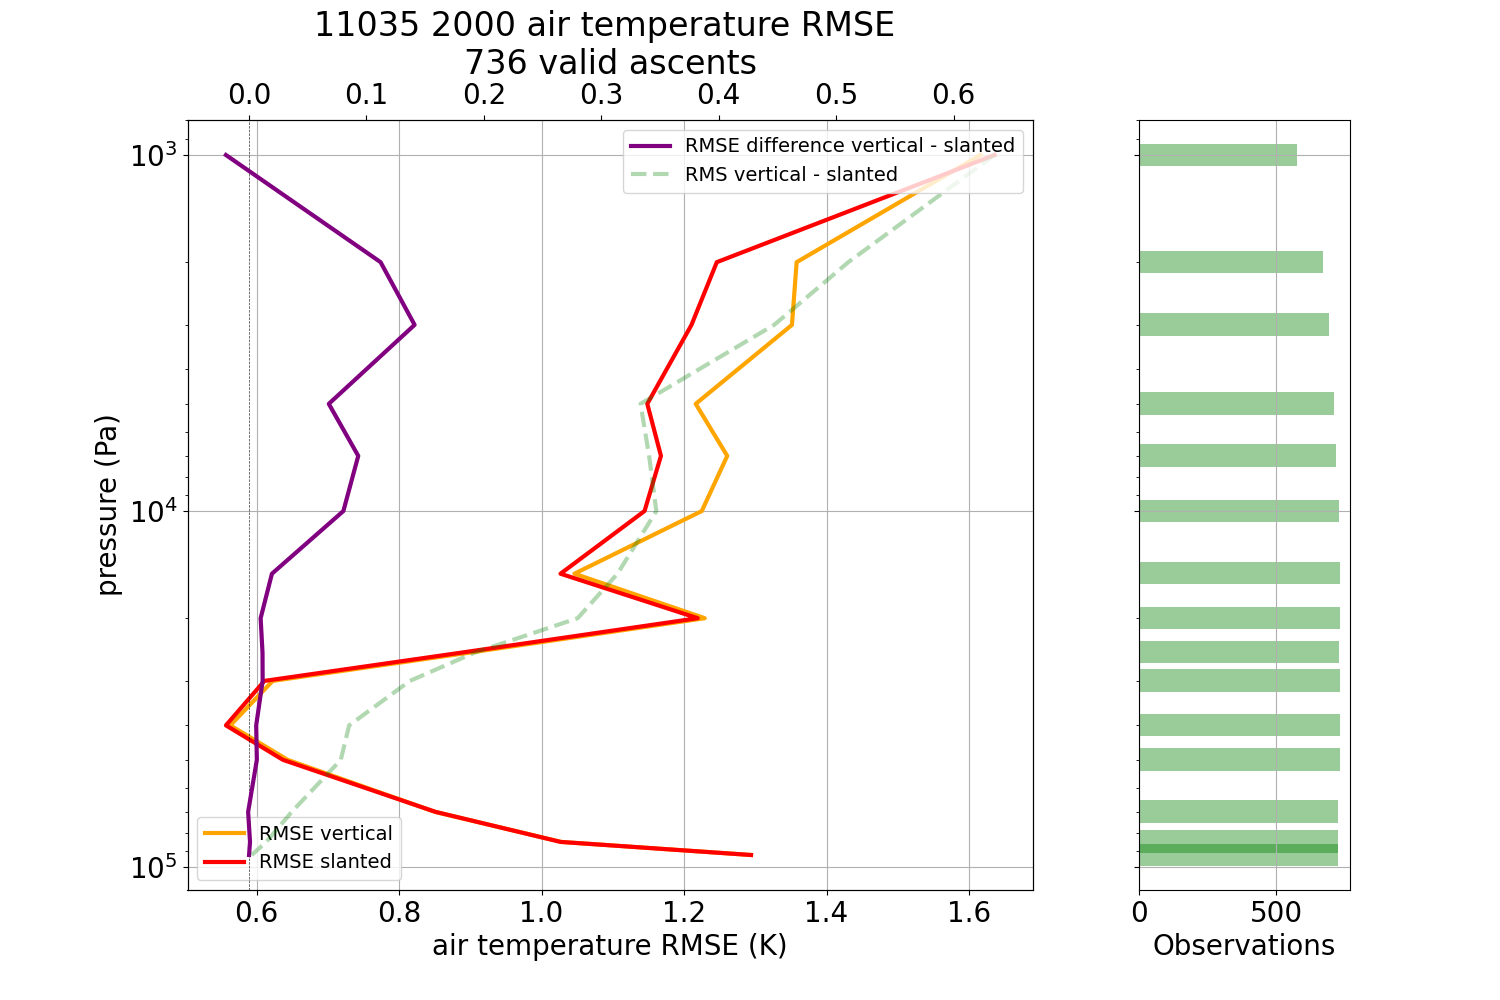
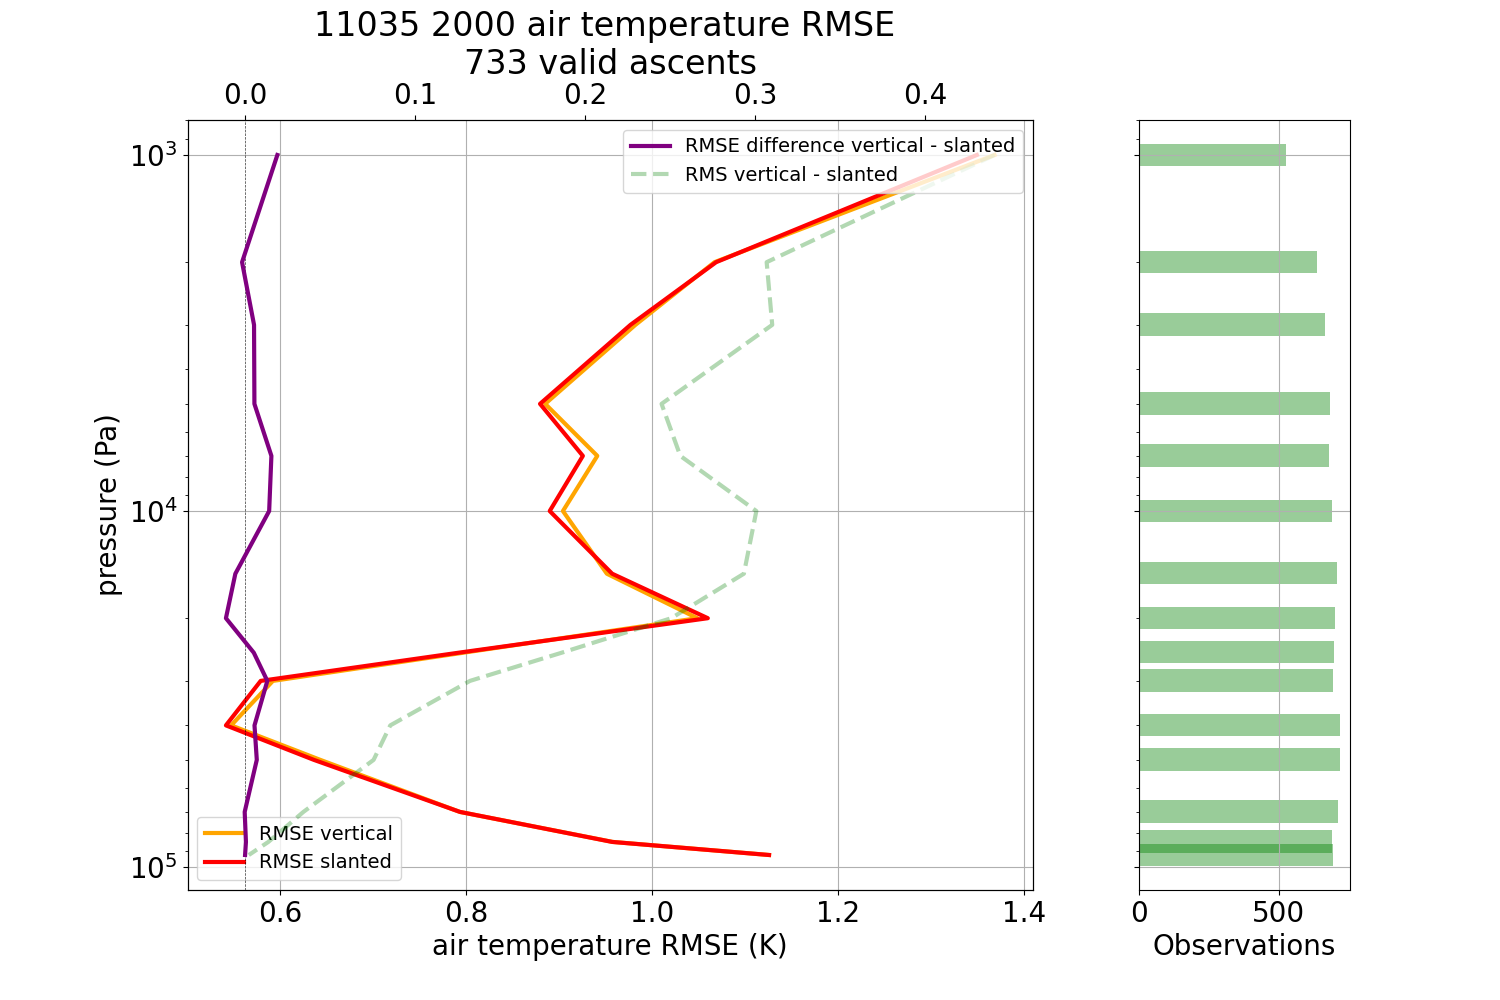
update

diff --git a/CEUAS/public/trajectory/igra_calc_rmse_plots_single.py b/CEUAS/public/trajectory/igra_calc_rmse_plots_single.py
@@ -70,7 +70,29 @@ def calc_station(sid, year, var, selected_mons = None):
     dt_from = datetime_to_seconds(np.datetime64(str(year)+'-01-01'))
     dt_to = datetime_to_seconds(np.datetime64(str(year)+'-12-31'))
 
-    conv_file = glob.glob('/scratch/das/federico/COP2_HARVEST_JAN2023/igra2/*' + stat + '*.nc')[0]
+    conv_file_igra = glob.glob('/scratch/das/federico/COP2_HARVEST_JAN2023/igra2/*' + stat + '*.nc')[0]
+    
+    #######
+    # use era_2 for everything before 2006
+    
+    if len(conv_file_igra) > 0:
+        print(year)
+        if year > 1979:
+            print('chose era5_1')
+            conv_file_era5 = glob.glob('/scratch/das/federico/COP2_HARVEST_JAN2023/era5_1/*' + conv_file_igra.split('/')[-1].split('_')[0] + '*.nc')
+        else:#
+            print('chose era5_1')
+            conv_file_era5 = glob.glob('/scratch/das/federico/COP2_HARVEST_JAN2023/era5_2/*' + conv_file_igra.split('/')[-1].split('_')[0] + '*.nc')
+
+    if len(conv_file_era5) > 1:
+        for cfi in conv_file_era5:
+            if len(cfi.split(conv_file_igra.split('/')[-1].split('_')[0].split('-')[-1])) > 2:
+                conv_file_igra = cfi
+    else:
+        conv_file_igra = conv_file_era5
+
+    #######
+
     df_dict = {}
     df_dict_w = {}
     df_dict_h = {}
@@ -91,7 +113,8 @@ def calc_station(sid, year, var, selected_mons = None):
         rms_sum_shdisp[i] = []
         rms_sum_dispminusbase[i] = []
     try:
-        with h5py.File(conv_file, 'r') as file:
+        with h5py.File(conv_file_igra, 'r') as file:
+            print(file.keys())
             rts = file['recordtimestamp'][:]
             idx = np.where(np.logical_and((rts >= dt_from), (rts <= dt_to)))[0]
             if len(idx) == 0:
@@ -117,6 +140,11 @@ def calc_station(sid, year, var, selected_mons = None):
             df_dict_w['date_time'] = seconds_to_datetime(df_dict_w['date_time'])
             df_dict_w['wd'] = list(file['observations_table']['observation_value'][t_idx[0]:t_idx[-1]][mask_wd])
             df_dict_w['ws'] = list(file['observations_table']['observation_value'][t_idx[0]:t_idx[-1]][mask_ws])
+
+            #####
+            df_dict_w['fg_depar_ws'] = list(file['era5fb']['fg_depar@body'][t_idx[0]:t_idx[-1]][mask_ws])
+            #####
+
             df_dict_w['u'] = - np.abs(df_dict_w['ws']) * np.sin(np.radians(df_dict_w['wd']))
             df_dict_w['v'] = - np.abs(df_dict_w['ws']) * np.cos(np.radians(df_dict_w['wd']))
             
@@ -133,6 +161,10 @@ def calc_station(sid, year, var, selected_mons = None):
             df_dict['date_time'] = seconds_to_datetime(df_dict['date_time'])
             df_dict['t'] = list(file['observations_table']['observation_value'][t_idx[0]:t_idx[-1]][mask_t])
 
+            #####
+            df_dict['fg_depar_t'] = list(file['era5fb']['fg_depar@body'][t_idx[0]:t_idx[-1]][mask_t])
+            #####
+
             #meta data
             df_dict['latitude'] = list(file['observations_table']['latitude'][t_idx[0]:t_idx[-1]][mask_t])
             df_dict['longitude'] = list(file['observations_table']['longitude'][t_idx[0]:t_idx[-1]][mask_t])
@@ -143,26 +175,48 @@ def calc_station(sid, year, var, selected_mons = None):
             df_w = pd.DataFrame.from_dict(df_dict_w)
             if varsel == 'q':
                 df_h = pd.DataFrame.from_dict(df_dict_h)
+            
+            #####
+            # df = pd.merge(df_t, df_w[['z_coordinate', 'date_time', 'u', 'v']], on=['z_coordinate', 'date_time'], how='inner')
+            df = pd.merge(df_t, df_w[['z_coordinate', 'date_time', 'u', 'v', 'fg_depar_ws']], on=['z_coordinate', 'date_time'], how='inner')
+            #####
 
-            df = pd.merge(df_t, df_w[['z_coordinate', 'date_time', 'u', 'v']], on=['z_coordinate', 'date_time'], how='inner')
+            print('df len',  len(df))
+
             if varsel == 'q':
                 df = pd.merge(df, df_h[['z_coordinate', 'date_time', 'rh']], on=['z_coordinate', 'date_time'], how='inner')
                 df['q'] = rasotools.met.humidity.vap2sh(rasotools.met.humidity.rh2vap(df.rh, df.t), df.z_coordinate)
+            # df = df.dropna(subset=['t', 'u', 'v'])
+            df.fg_depar_t = np.nan_to_num(df.fg_depar_t)
+            df.fg_depar_ws = np.nan_to_num(df.fg_depar_ws)            
+
+            t_pc01 = np.nanpercentile(df.fg_depar_t, 1)
+            t_pc99 = np.nanpercentile(df.fg_depar_t, 99)
+            ws_pc01 = np.nanpercentile(df.fg_depar_ws, 1)
+            ws_pc99 = np.nanpercentile(df.fg_depar_ws, 99)
 
             lat_disp, lon_disp, sec_disp = np.array([np.nan]*len(df)),np.array([np.nan]*len(df)),np.array([np.nan]*len(df))
 
             for rid in df.report_id.drop_duplicates():
                 df_j = df[df.report_id == rid].copy()
+
+                #####
+                # remove this if no bg threshold check should be done
+                df_j = df_j[np.logical_and(np.logical_and(df_j.fg_depar_t < t_pc99, df_j.fg_depar_t > t_pc01), 
+                                        np.logical_and(df_j.fg_depar_ws < ws_pc99, df.fg_depar_ws > ws_pc01)
+                                        )]
+                #####
+
                 df_j_cleanded = df_j.sort_values(by='z_coordinate', ascending=False).dropna(subset=['t', 'u', 'v'])
                 if len(df_j_cleanded) > 3:
 
                     idx =  df_j_cleanded.index.values
                     lat_i, lon_i, sec_i = trj.trajectory(df_j_cleanded.latitude.iloc[0], 
-                                                         df_j_cleanded.longitude.iloc[0], 
-                                                         df_j_cleanded.u.values, 
-                                                         df_j_cleanded.v.values, 
-                                                         df_j_cleanded.z_coordinate.values, 
-                                                         df_j_cleanded.t.values
+                                                            df_j_cleanded.longitude.iloc[0], 
+                                                            df_j_cleanded.u.values, 
+                                                            df_j_cleanded.v.values, 
+                                                            df_j_cleanded.z_coordinate.values, 
+                                                            df_j_cleanded.t.values
                                                         )
                     lat_disp[idx] = lat_i
                     lon_disp[idx] = lon_i
@@ -241,6 +295,8 @@ def calc_station(sid, year, var, selected_mons = None):
                     t_base = float(sq_t[p_ml == find_nearest(p_ml,stdplevs[i])])
                     t_disp = float(np.array(t_list)[p_ml == find_nearest(p_ml,stdplevs[i])])
                     input_data_step = input_data[input_data.z_coordinate == find_nearest(input_data.z_coordinate, stdplevs[i])]
+                    if len(input_data_step) > 1:
+                        input_data_step = input_data_step.iloc[0]
                     t_sonde = float(input_data_step[varsel])
 
                     rmse_sum_shbase_sonde[stdplevs[i]].append(t_base - t_sonde)
@@ -265,9 +321,9 @@ if __name__ == '__main__':
     stdplevs = [1000,2000,3000,5000,7000,10000,15000,20000,25000,30000,40000,50000,70000,85000,92500]
     diff = True
     show_date = False
-    for var in ['specific humidity']: #['eastward windspeed', 'northward windspeed', 'air temperature', 'specific humidity']:
+    for var in ['air temperature']: #['eastward windspeed', 'northward windspeed', 'air temperature', 'specific humidity']:
         for year in [2000]: # [1960, 1970, 1980, 1990, 2000, 2010, 2020]:
-            for i in glob.glob('/scratch/das/federico/COP2_HARVEST_JAN2023/igra2/*70219*.nc')[:]: # 70219
+            for i in glob.glob('/scratch/das/federico/COP2_HARVEST_JAN2023/igra2/*11035*.nc')[:]: # 70219
                 sid = i.split('/')[-1].split('.')[0]
                 results = calc_station(sid,year,var)
                 with open(sid.split('-')[3][:5]+'_era5_' + save_dict[var] + '_fc_'+str(year)+'_rmse_data.p', 'wb') as file:
